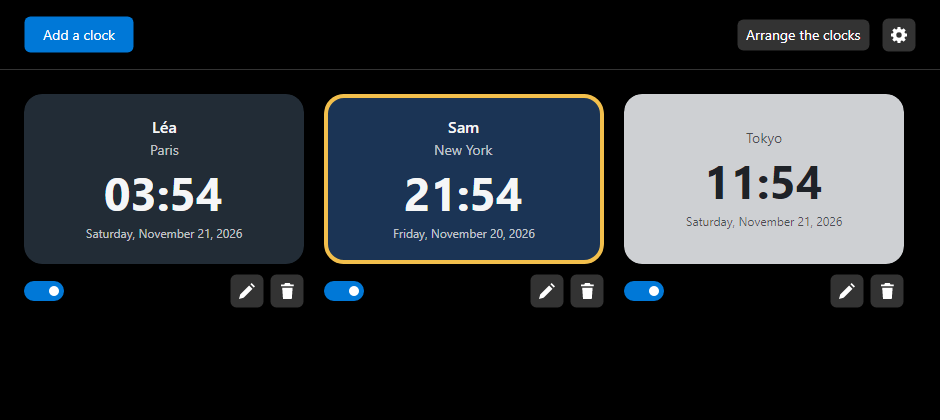
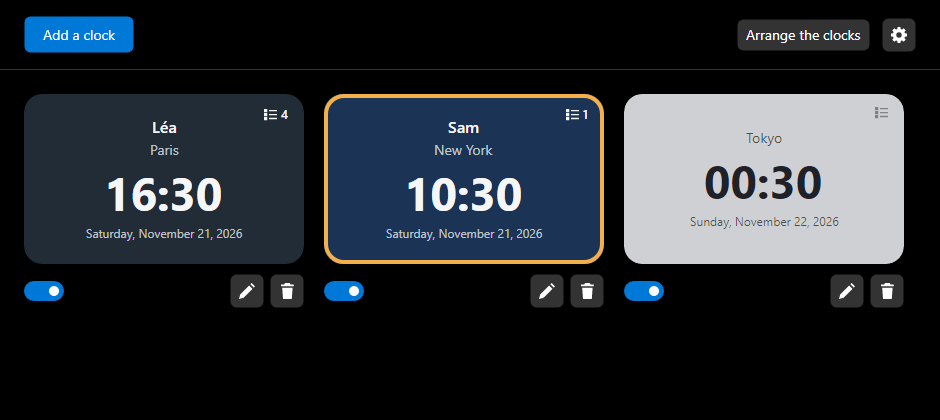
Public page: task lists and reminders, version shown in the app

diff --git a/README.md b/README.md
@@ -14,11 +14,15 @@ Time zone clocks pinned to your desktop: one widget per city or per person, in p
 - **Plain colors**: background and text color per clock, from a sober palette or any custom color, with an adjustable background opacity, and a font per clock.
 - **Size**: every clock has the same size, adjustable from 50 to 200 %, per clock or for all of them at once.
 - **Working hours**: the border of a clock shows whether you can reach that city. It is green during its working hours, then turns yellow, orange and red before the end, and red outside them; a color announces the start. The hours, the days, the five colors and when each color shows are set per clock.
+- **A task list per clock**: the button at the top right of a clock opens its list, like a checklist in a note app: check marks that strike through, one level of sub-tasks, drag to reorder, and web addresses that open in your browser. The button shows how many tasks are left.
+- **Reminders**: each task can have a reminder, in the clock's time zone or your computer's. When it is due, the clock's border blinks slowly until the task is checked.
 - **A switch per clock** shows or hides its widget on the desktop.
 - **Light or dark theme**, 24-hour or 12-hour format, start with the computer.
 - Interface in **English, French and Spanish**; the dates follow the interface language.
 
 ![The same clocks in the light theme](images/worldclockr-light.png)
+
+![The task list of a clock](images/worldclockr-tasks.png)
 
 ![The working hours of a clock](images/worldclockr-editor.png)
 
@@ -45,9 +49,11 @@ The installers are not code-signed yet, so the first launch shows a warning:
 |---|---|
 | Add a clock | **Add a clock**, then search a city, a country or a time zone and pick a result (arrows and Enter work too) |
 | Move a widget | Drag it |
-| Edit a clock | Double-click it, in the list or on the desktop, or use the pencil button in the list, or right-click the widget → Edit… |
+| Edit a clock | Double-click it in the main window, or the pencil button under it, or right-click the widget → Edit… |
 | Change the size of the clocks | Edit a clock → **Settings** tab; tick **Apply this size to all clocks** to resize them all |
 | Color the border with the working hours | Edit a clock → **Working hours** tab |
+| Keep tasks for a clock | The list button at the top right of the clock. Enter adds a task, Tab makes it a sub-task, Backspace on an empty task deletes it, the handle reorders |
+| Set a reminder | The bell on a task: date, time, and the clock's time zone or your computer's |
 | Show or hide a widget | The switch under the clock in the list, or right-click the widget → Remove from the desktop |
 | Delete a clock | The trash button under the clock in the list, then confirm |
 | Line the widgets up on the main screen | **Arrange the clocks** |
